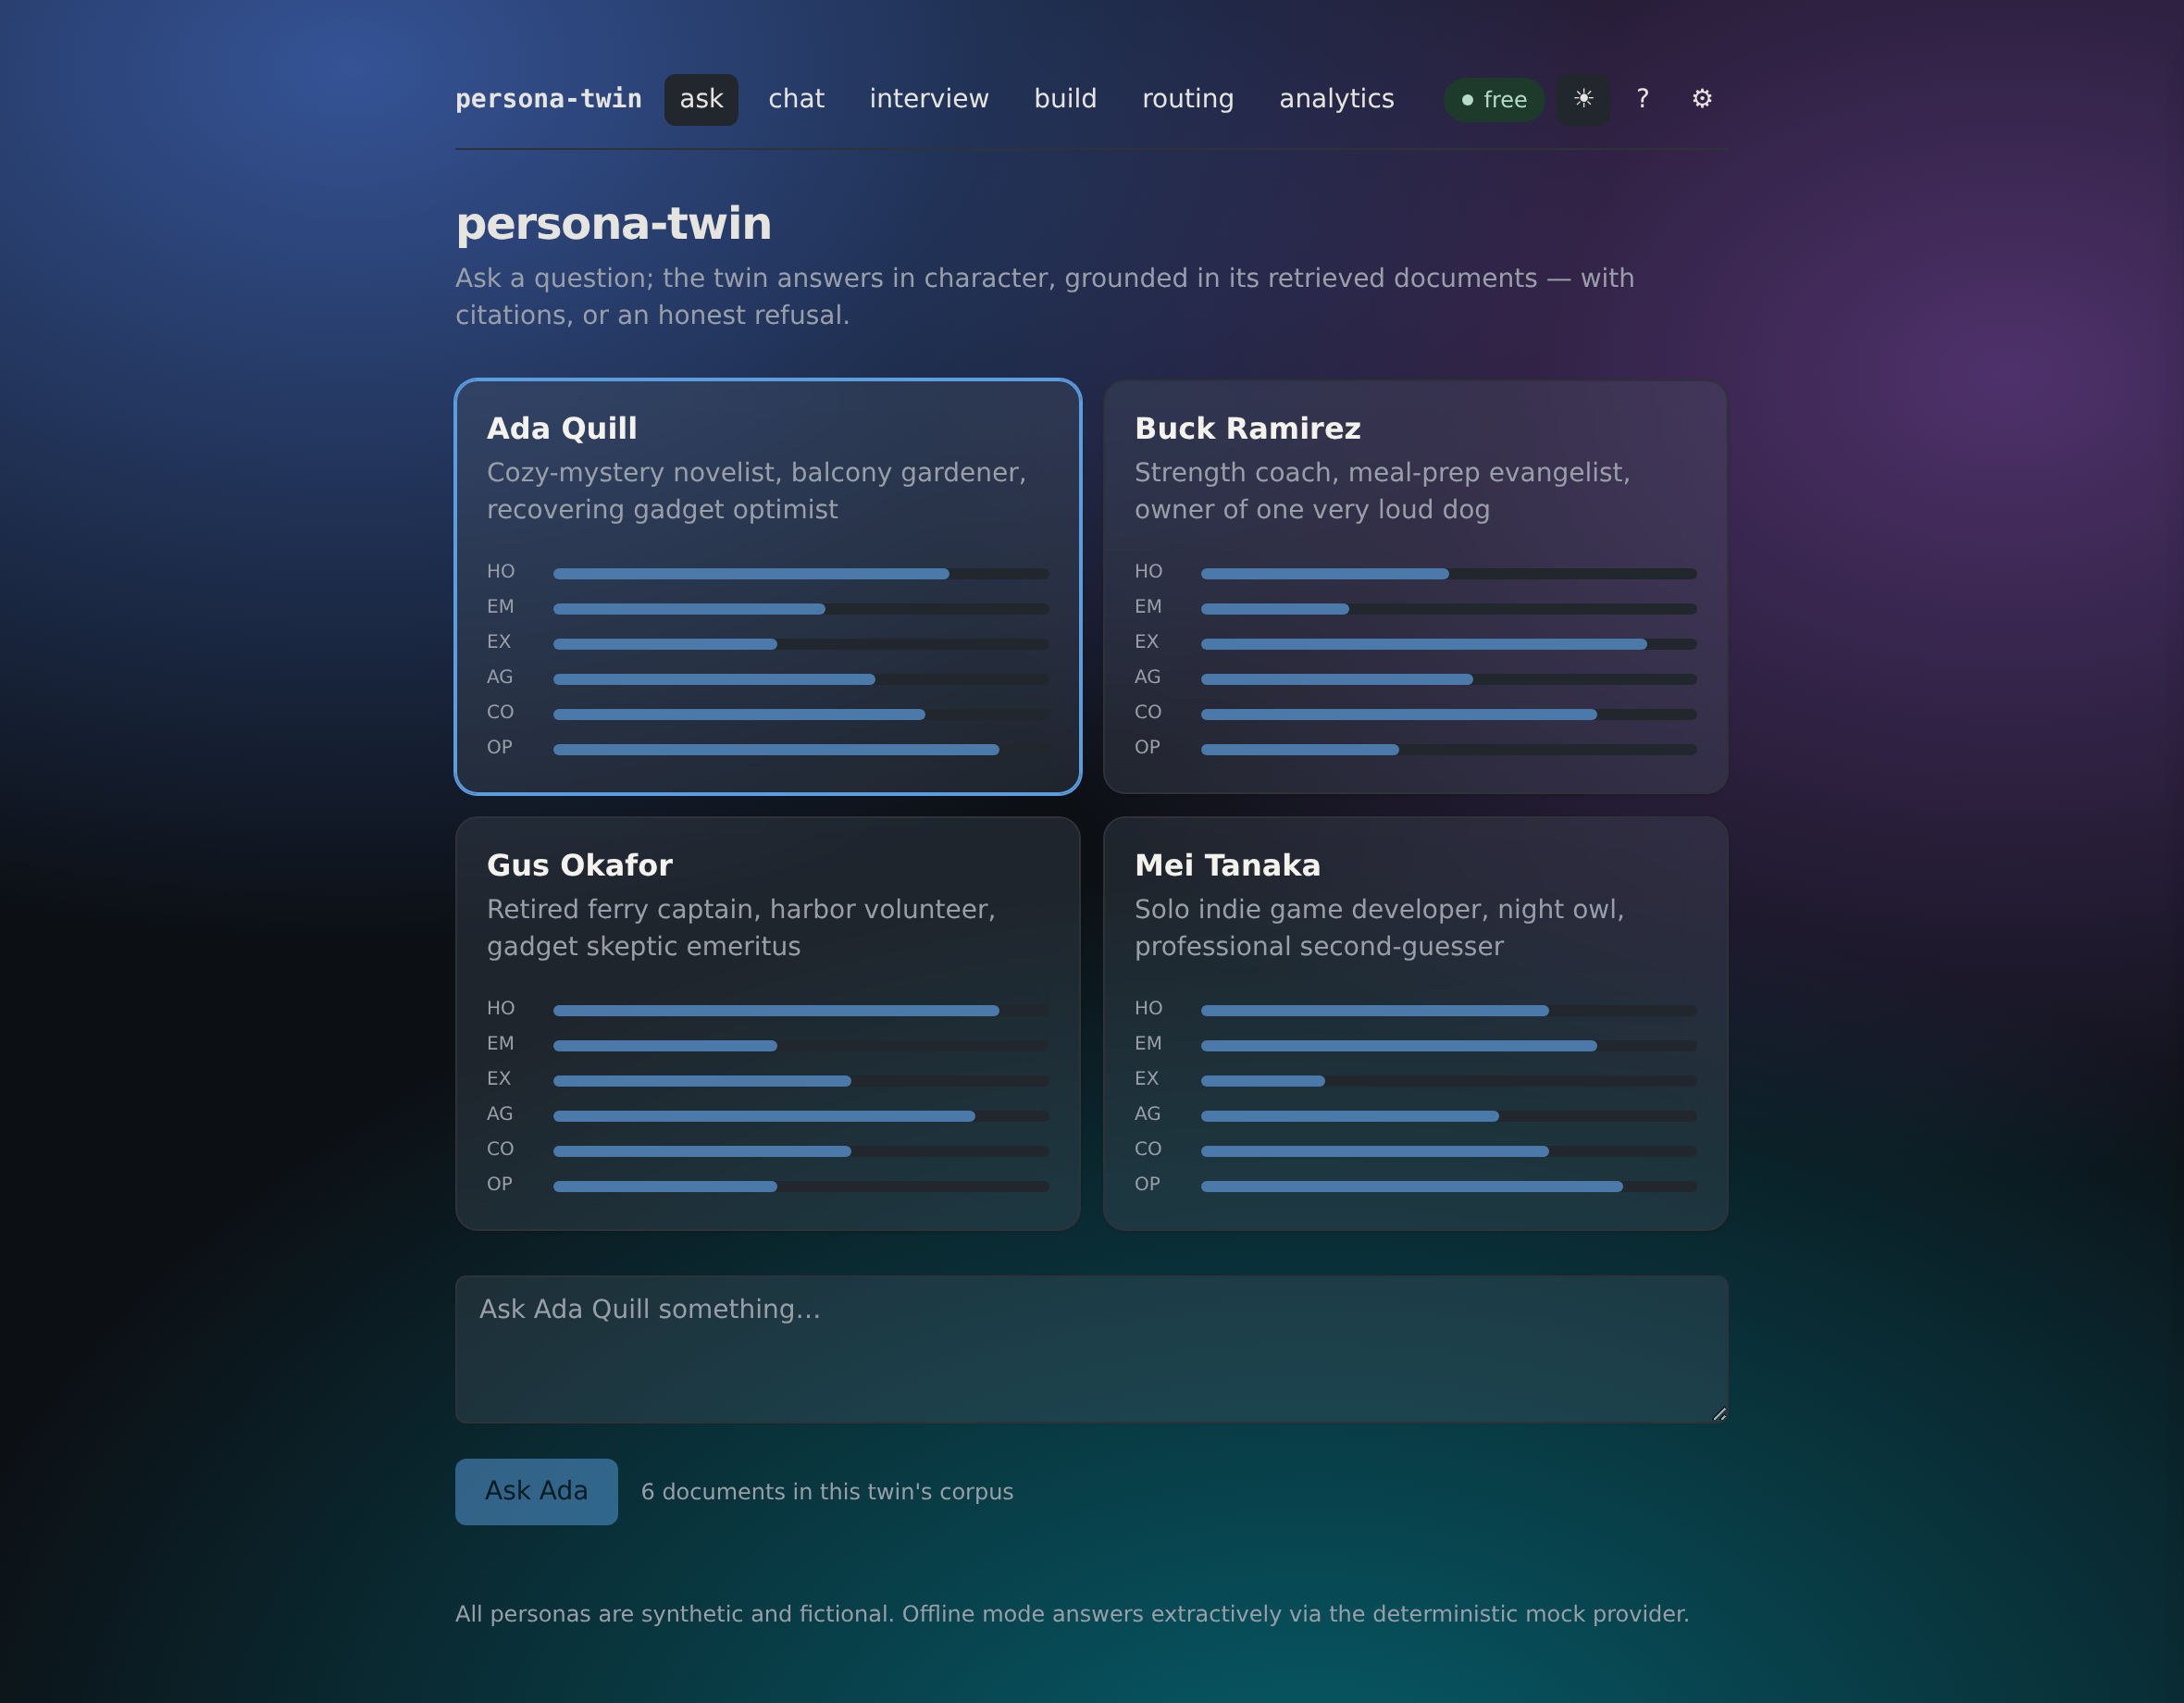
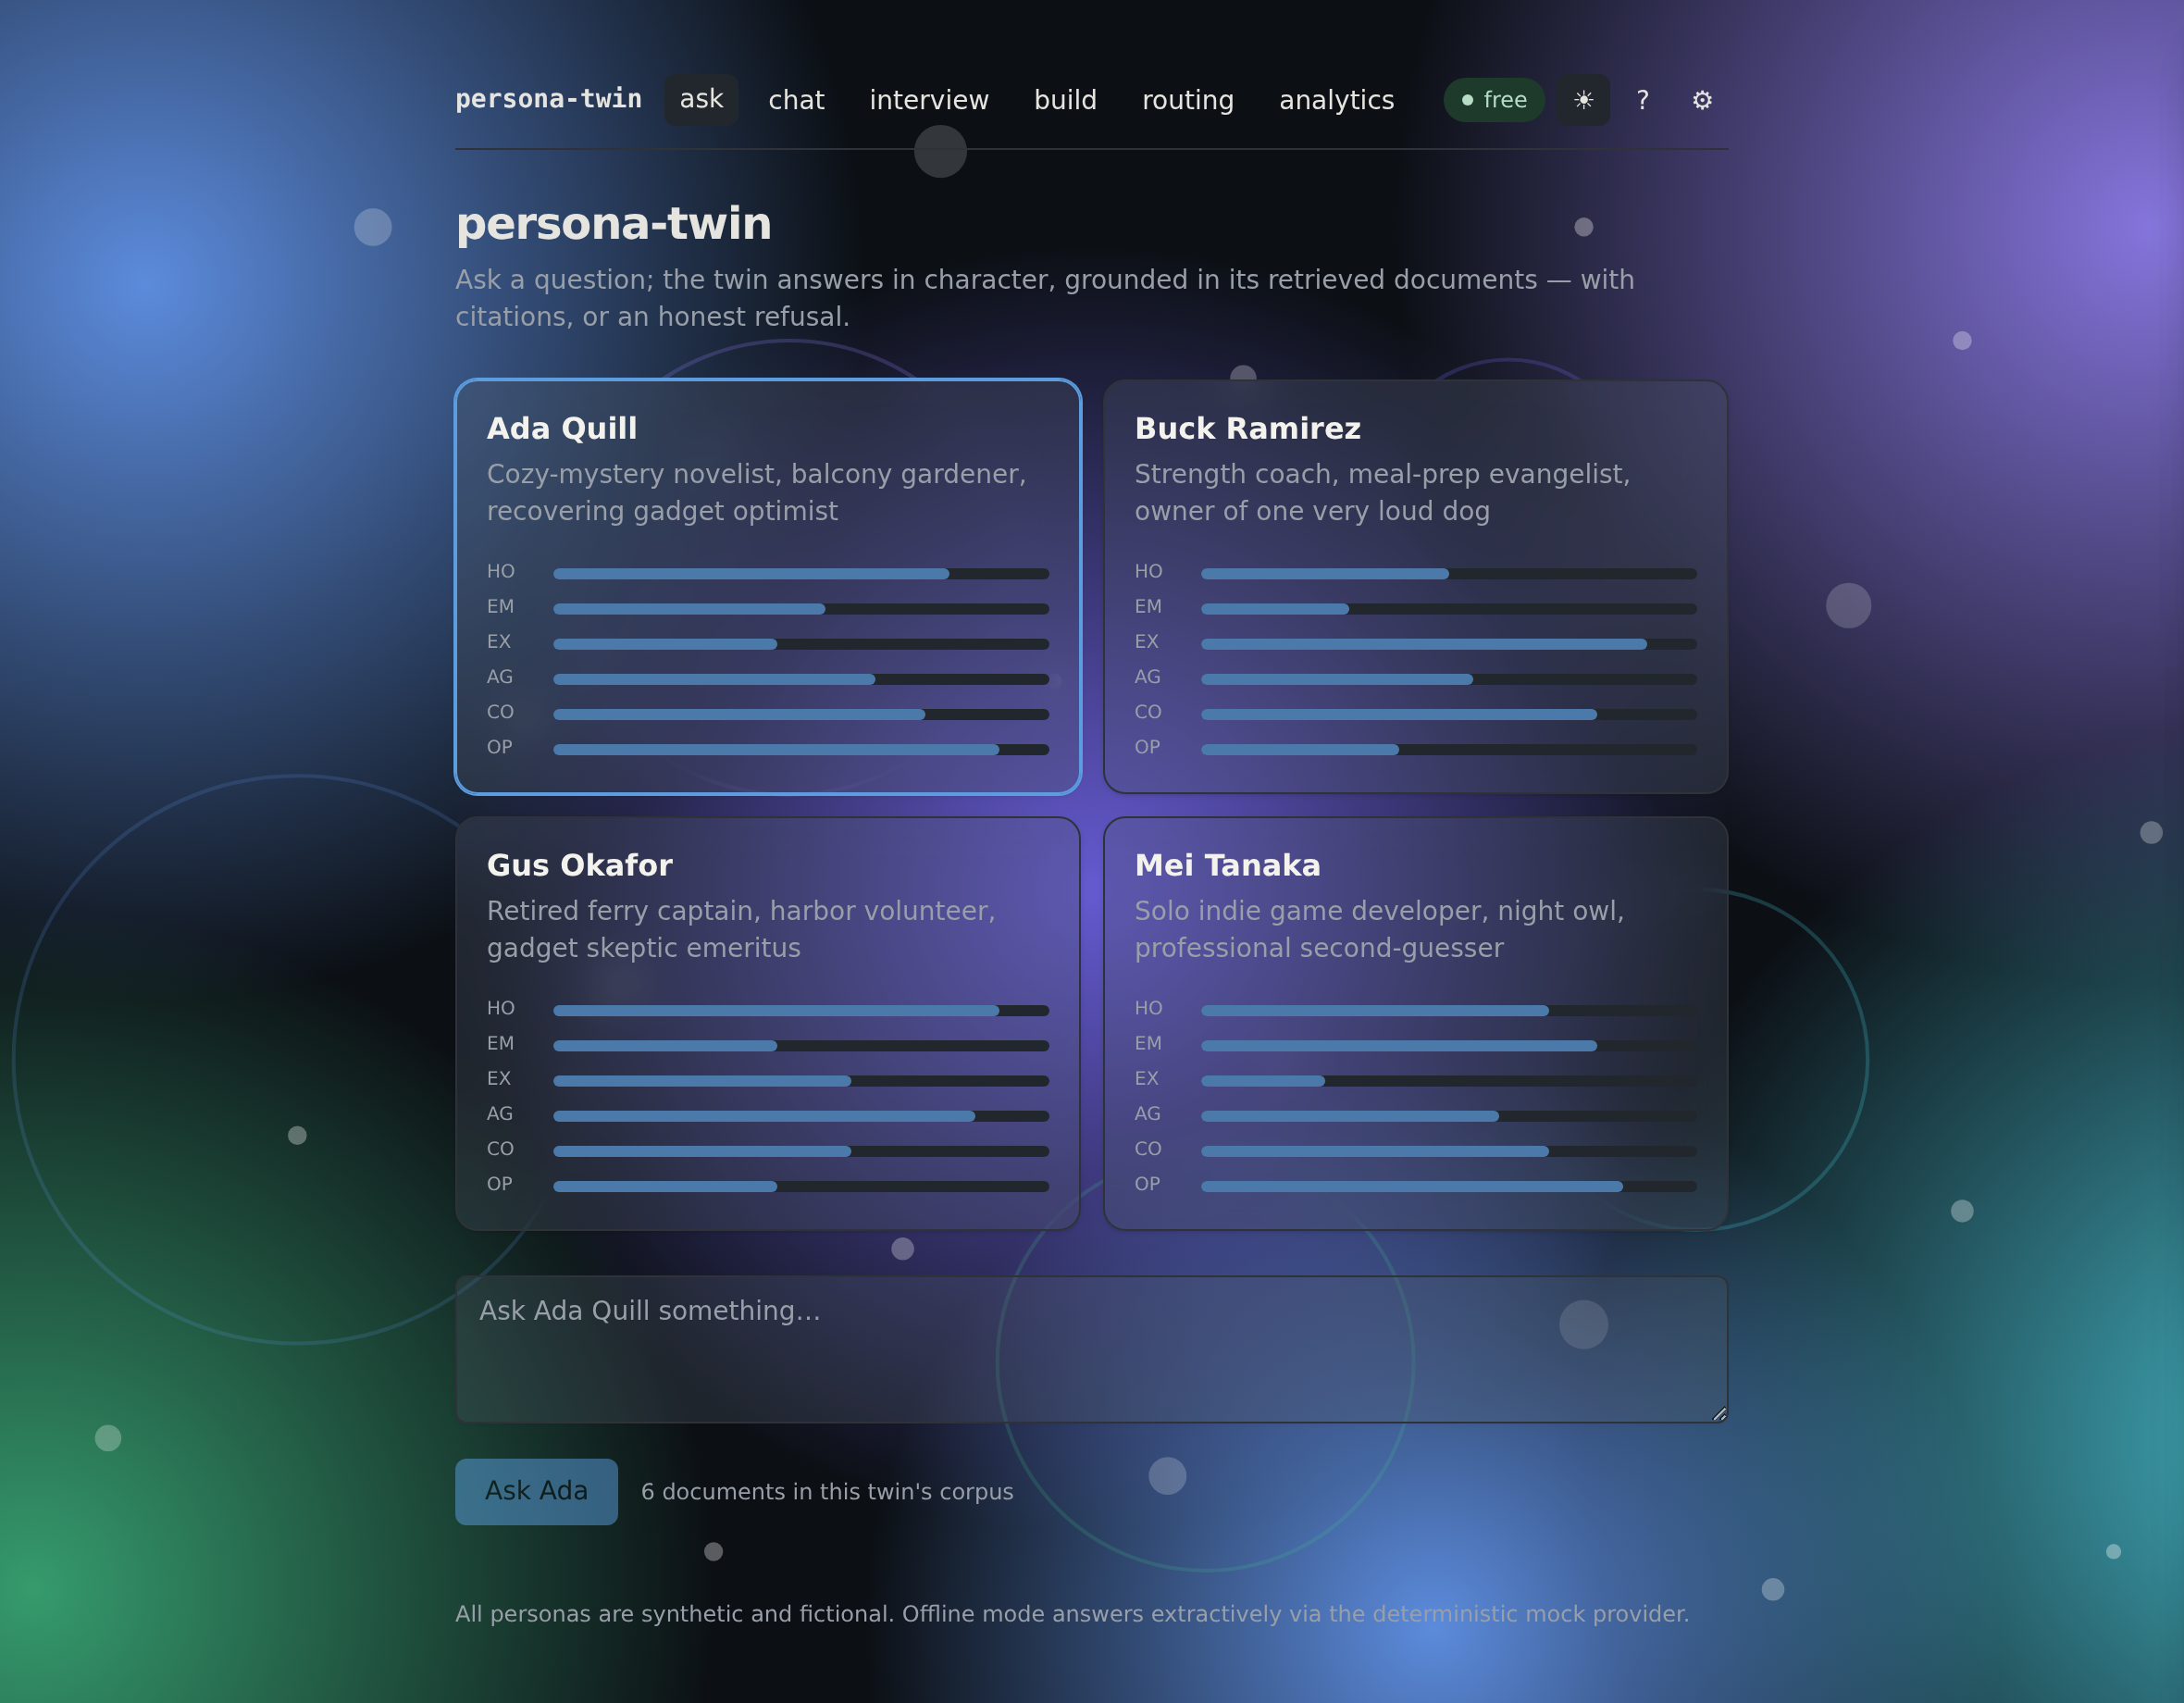
persona-twin(ui): real bundled backdrop so the frosted glass actually reads
Smooth gradients can't showcase transparency — blurring a gradient returns the
same gradient, so a frosted pane over one looks identical to a solid one. Replace
it with a bundled abstract image (public/bg.svg): soft colour bokeh orbs for the
palette plus crisp dots and thin rings for defined edges. Now a translucent pane
visibly blurs the dots/rings behind it, which is what sells the glass. One asset,
both themes (the theme background-color shows between the shapes). No external
dependency.

diff --git a/projects/persona-twin/frontend/app/app.css b/projects/persona-twin/frontend/app/app.css
@@ -41,20 +41,15 @@ html.dark { color-scheme: dark; }
 /* anchor offset so Help deep-links don't tuck under surrounding chrome */
 [data-help-section] { scroll-margin-top: 1rem; }
 
-/* A calm, cohesive "aurora" backdrop (generated in CSS — no external asset),
-   fixed to the viewport, so the translucent frosted panes have something to
-   reveal. Cohesive blue → violet → cyan rather than four clashing corners. */
+/* A bundled abstract backdrop (bokeh orbs + crisp dots/rings) fixed to the
+   viewport. The crisp detail is the point: a frosted pane visibly blurs the
+   dots/rings behind it, which is what makes the transparency read. One asset
+   works on both themes — the theme background-color shows between the shapes. */
 body {
-  background-attachment: fixed;
   background-color: var(--color-background);
-  background-image:
-    radial-gradient(1100px 760px at 16% 4%, oklch(0.82 0.1 264 / 0.6), transparent 62%),
-    radial-gradient(1000px 720px at 92% 22%, oklch(0.85 0.09 310 / 0.5), transparent 60%),
-    radial-gradient(1200px 820px at 60% 108%, oklch(0.86 0.09 205 / 0.55), transparent 64%);
-}
-.dark body {
-  background-image:
-    radial-gradient(1100px 760px at 16% 4%, oklch(0.62 0.17 264 / 0.6), transparent 62%),
-    radial-gradient(1000px 720px at 92% 22%, oklch(0.56 0.17 308 / 0.5), transparent 60%),
-    radial-gradient(1200px 820px at 60% 108%, oklch(0.62 0.15 205 / 0.55), transparent 64%);
+  background-image: url("/bg.svg");
+  background-size: cover;
+  background-position: center;
+  background-attachment: fixed;
+  background-repeat: no-repeat;
 }